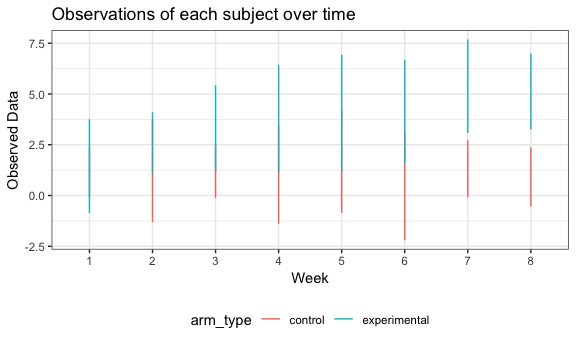
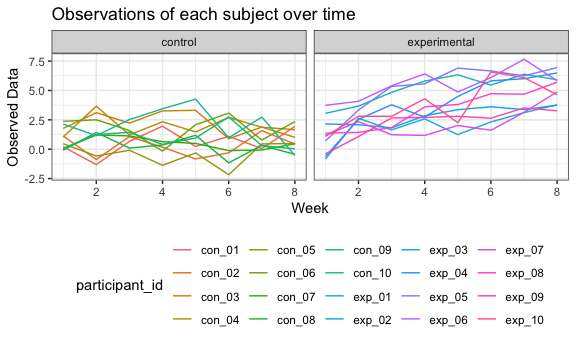
Made changes to graph and fixed unsolved homocide for prop.test

Changed region(s): [[0.0, 0.087, 1.0, 0.9565], [0.8438, 0.8406, 0.9375, 0.9565], [0.125, 0.8116, 0.2812, 0.8406]]

diff --git a/p8105_hw5_qg2155.md b/p8105_hw5_qg2155.md
@@ -18,7 +18,8 @@ load_study_data = function(file) {
            arm_type = str_replace(arm_type, "con", "control"),
            arm_type = str_replace(arm_type, "exp", "experimental"),
            participant_id = str_replace(participant_id, ".csv", ""),
-           week = str_replace(week, "week_", "")) %>% 
+           week = str_replace(week, "week_", ""),
+           week = as.numeric(week)) %>% 
     select(participant_id, arm_type, week, observed_data)
   
   df
@@ -32,18 +33,18 @@ study_data
 ```
 
     ## # A tibble: 160 x 4
-    ##    participant_id arm_type week  observed_data
-    ##    <chr>          <chr>    <chr>         <dbl>
-    ##  1 con_01         control  1              0.2 
-    ##  2 con_01         control  2             -1.31
-    ##  3 con_01         control  3              0.66
-    ##  4 con_01         control  4              1.96
-    ##  5 con_01         control  5              0.23
-    ##  6 con_01         control  6              1.09
-    ##  7 con_01         control  7              0.05
-    ##  8 con_01         control  8              1.94
-    ##  9 con_02         control  1              1.13
-    ## 10 con_02         control  2             -0.88
+    ##    participant_id arm_type  week observed_data
+    ##    <chr>          <chr>    <dbl>         <dbl>
+    ##  1 con_01         control      1          0.2 
+    ##  2 con_01         control      2         -1.31
+    ##  3 con_01         control      3          0.66
+    ##  4 con_01         control      4          1.96
+    ##  5 con_01         control      5          0.23
+    ##  6 con_01         control      6          1.09
+    ##  7 con_01         control      7          0.05
+    ##  8 con_01         control      8          1.94
+    ##  9 con_02         control      1          1.13
+    ## 10 con_02         control      2         -0.88
     ## # ... with 150 more rows
 
 This dataset has 160 rows of observed data and 4 variables. There are a total of 20 participants, in which 10 are in the experimental group and 10 in control group. The variable participant\_id shows the study arm that the participant belongs to and their id number in their study arm. I also created a study arm variable to make it easier to group the participants by their treatment group. The week variable shows the weeks 1 to 8 and the observed data shows the collected data for each participant for every week.
@@ -52,19 +53,20 @@ This dataset has 160 rows of observed data and 4 variables. There are a total of
 
 ``` r
 study_data %>% 
-  group_by(arm_type) %>% 
-  ggplot(aes(x = week, y = observed_data, color = arm_type)) +
-  geom_line() +
-  labs(
-    title = "Observations of each subject over time",
-    x = "Week",
-    y = "Observed Data"
-  )
+  group_by(participant_id) %>% 
+  ggplot(aes(x = week, y = observed_data, color = participant_id)) +
+    facet_grid(.~arm_type) +
+    geom_line() +
+    labs(
+      title = "Observations of each subject over time",
+      x = "Week",
+      y = "Observed Data"
+    )
 ```
 
 <img src="p8105_hw5_qg2155_files/figure-markdown_github/plot-1.png" width="90%" />
 
-This spaghetti plot shows that at week 1, there is no distinction between the control and experimental group because the observed line only has one color. This makes sense because the participants just started their treatment so the results of the experimental group can not yet be seen. Participants in the experimental group at week 1 should be very similar to those in the control group. As the number of weeks progress, we can start to see the observed data for control increase whereas the experimental group decreases. This could possibly mean that the conditions in the control group are getting worse whereas those in the experimental group are improving. At weeks 7 and 8, there is a distinction between the experimental and control group because the two colored lines are no longer overlapping. The differences between the two groups are also growing because the gap between the two lines got bigger in week 8 compared to week 7.
+This spaghetti plot shows that the control group has overall lower observation values than the experimental group. This could be the health condition of controls are worse than those who are in the experimental group. Overall, the experimental group has an upward trend. This means that the treatment they are taking is helping to improve their conditions over time. The control group, however, mostly remained around the same observed values even with a little bit of a downward trend. This means that the control group's conditions remain constant over time, with some even getting worse.
 
 Question 2
 ----------
@@ -171,7 +173,7 @@ b_unsolved_homocide = baltimore_data %>%
   filter(disposition %in% c("Closed without arrest", "Open/No arrest")) %>% 
   summarize(unsolved_homocide_n = n()) 
 
-baltimore_output = prop.test(x = b_homocide$homocide_n, n = total_cases$cases_n) %>% 
+baltimore_output = prop.test(x = b_unsolved_homocide$unsolved_homocide_n, n = total_cases$cases_n) %>% 
   broom::tidy() 
 
 output_estimate = baltimore_output[c(1,5,6)]
@@ -210,7 +212,7 @@ baltimore_output
     ## # A tibble: 1 x 8
     ##   estimate statistic  p.value parameter conf.low conf.high method
     ##      <dbl>     <dbl>    <dbl>     <int>    <dbl>     <dbl> <chr> 
-    ## 1    0.354      239. 6.46e-54         1    0.337     0.372 1-sam…
+    ## 1    0.646      239. 6.46e-54         1    0.628     0.663 1-sam…
     ## # ... with 1 more variable: alternative <chr>
 
 ``` r
@@ -220,9 +222,9 @@ output_estimate
     ## # A tibble: 1 x 3
     ##   estimate conf.low conf.high
     ##      <dbl>    <dbl>     <dbl>
-    ## 1    0.354    0.337     0.372
+    ## 1    0.646    0.628     0.663
 
-Baltimore has a total of 2827 cases. Out of all the cases, 1002 of them were homocides and 1825 were unsolved homocides. 35.4% of the homocides were unsolved, with the 95% confidence interval being 33.7% to 37.2%.
+Baltimore has a total of 2827 cases. Out of all the cases, 1002 of them were homocides and 1825 were unsolved homocides. 64.6 4% of the homocides were unsolved, with the 95% confidence interval being 62.8% to 66.3%.
 
 ### Unsolved homocides for each city
 
@@ -248,7 +250,7 @@ unsolved_homocide = data %>%
   filter(disposition %in% c("Closed without arrest", "Open/No arrest")) %>% 
   summarize(unsolved_homocide_n = n()) 
 
-output = prop.test(x = homocide$homocide_n, n = total_cases$cases_n) %>% 
+output = prop.test(x = unsolved_homocide$unsolved_homocide_n, n = total_cases$cases_n) %>% 
   broom::tidy() 
 
 tibble(
@@ -266,8 +268,8 @@ city_results =
   unnest(city_homocide)
 ```
 
-    ## Warning in prop.test(x = homocide$homocide_n, n = total_cases$cases_n):
-    ## Chi-squared approximation may be incorrect
+    ## Warning in prop.test(x = unsolved_homocide$unsolved_homocide_n, n =
+    ## total_cases$cases_n): Chi-squared approximation may be incorrect
 
 ``` r
 city_results
@@ -276,16 +278,16 @@ city_results
     ## # A tibble: 51 x 5
     ##    city_state      data                  estimate upper_ci lower_ci
     ##    <chr>           <list>                   <dbl>    <dbl>    <dbl>
-    ##  1 Albuquerque, NM <tibble [378 × 12]>      0.614    0.562    0.663
-    ##  2 Atlanta, GA     <tibble [973 × 12]>      0.617    0.585    0.647
-    ##  3 Baltimore, MD   <tibble [2,827 × 12]>    0.354    0.337    0.372
-    ##  4 Baton Rouge, LA <tibble [424 × 12]>      0.538    0.489    0.586
-    ##  5 Birmingham, AL  <tibble [800 × 12]>      0.566    0.531    0.601
-    ##  6 Boston, MA      <tibble [614 × 12]>      0.495    0.455    0.535
-    ##  7 Buffalo, NY     <tibble [521 × 12]>      0.388    0.346    0.431
-    ##  8 Charlotte, NC   <tibble [687 × 12]>      0.700    0.664    0.734
-    ##  9 Chicago, IL     <tibble [5,535 × 12]>    0.264    0.253    0.276
-    ## 10 Cincinnati, OH  <tibble [694 × 12]>      0.555    0.517    0.592
+    ##  1 Albuquerque, NM <tibble [378 × 12]>      0.386    0.337    0.438
+    ##  2 Atlanta, GA     <tibble [973 × 12]>      0.383    0.353    0.415
+    ##  3 Baltimore, MD   <tibble [2,827 × 12]>    0.646    0.628    0.663
+    ##  4 Baton Rouge, LA <tibble [424 × 12]>      0.462    0.414    0.511
+    ##  5 Birmingham, AL  <tibble [800 × 12]>      0.434    0.399    0.469
+    ##  6 Boston, MA      <tibble [614 × 12]>      0.505    0.465    0.545
+    ##  7 Buffalo, NY     <tibble [521 × 12]>      0.612    0.569    0.654
+    ##  8 Charlotte, NC   <tibble [687 × 12]>      0.300    0.266    0.336
+    ##  9 Chicago, IL     <tibble [5,535 × 12]>    0.736    0.724    0.747
+    ## 10 Cincinnati, OH  <tibble [694 × 12]>      0.445    0.408    0.483
     ## # ... with 41 more rows
 
 Create plot of homocide by city
@@ -296,15 +298,15 @@ city_results %>%
   geom_point() +
   geom_errorbar(aes(ymin = lower_ci, ymax = upper_ci)) +
   labs(
-    title = "Proportion of homocide by city",
+    title = "Proportion of unsolved homocide by city",
     x = "City",
-    y = "Homocide Proportion"
+    y = "Unsolved Homocide Proportion"
   ) +
   theme(axis.text.x = element_text(angle = 90, hjust = 1))
 ```
 
-<img src="p8105_hw5_qg2155_files/figure-markdown_github/homocide plot-1.png" width="90%" />
+<img src="p8105_hw5_qg2155_files/figure-markdown_github/unsolved homocide plot-1.png" width="90%" />
 
-This graph shows the proportion of homocides for 51 different cities. The proportion of homocide are mostly between 25 to 75 percent, with the exception of a couple of outliers. The city Tulsa, AL only has one data point and is the biggest outlier in the dataset so it could have been a mistake. After googling, it appears that there is no city named Tulsa in AL.
+This graph shows the proportion of unsolved homocides for 51 different cities. The proportion of unsolved homocide are mostly between 25 to 75 percent. The city Tulsa, AL only has one data point and is the biggest outlier in the dataset so it could have been a mistake in creating the dataset. After googling, it appears that there is no city named Tulsa in AL.
 
-Out of all cities, Chicago has the lowest proportion of homocide with a very narrow confidence interval. New Orleans and Baltimore are both runner ups for low proportion of homocide. This means that out of all the cases that happened in these cities, a very low proportion (25% - 37.5%) of cases were considered homocides (closed with arrest). A majority of cases in these cities closed with no arrest or were still open.
+Out of all cities, Chicago has the highest unsolved proportion of homocide with a very narrow confidence interval. New Orleans and Baltimore are both runner ups for high proportion of unsolved homocide. This means that a majority of cases in these cities closed with no arrest or were still open.
